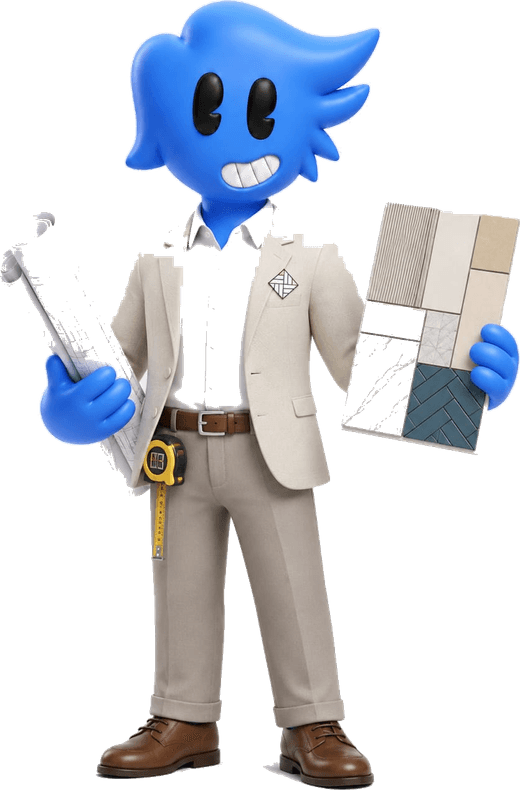
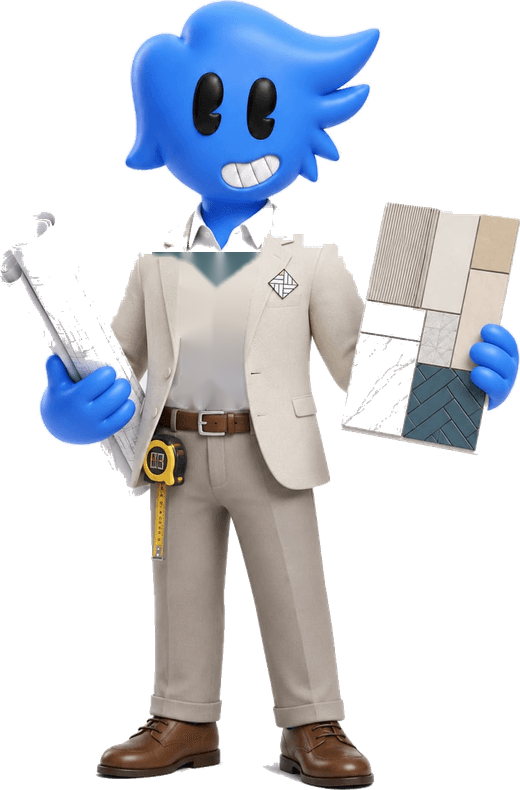
Fix the actual cause of the invisible shirt: a real hole in the PNG
Two prior fixes (disabling mipmaps, a drop-shadow for contrast) were
both wrong theories -- verified with a real Chrome headless screenshot
this time instead of reasoning blind. Sampled the exact "missing"
pixels on screen: they matched the page background color almost
exactly, meaning genuine transparency, not just poor contrast. Traced
it to the source file: public/images/mascot.png had a real
~110x155px hole punched through the shirt/collar (alpha=0), left over
from whatever background-removal process made the cutout originally --
confirmed via a connected-component analysis (scipy.ndimage.label) that
it was a single enclosed blob, not intentional negative space. Repaired
it with OpenCV inpainting (cv2.INPAINT_TELEA) scoped tightly to that
blob so nothing else in the image was touched.

Also reverted Mascot3D's curved/bulged plane geometry back to a flat
plane -- added while chasing the wrong theory, on the (now
disproven, but not worth re-risking) suspicion that the Z-bulge caused
front/back face z-fighting on DoubleSide. Flat plane still rotates and
lights correctly, just without the extra volumetric curve.

Changed region(s): [[0.2769, 0.3038, 0.5231, 0.5165]]

diff --git a/components/Mascot3D.tsx b/components/Mascot3D.tsx
@@ -1,6 +1,6 @@
 "use client";
 
-import { Suspense, useEffect, useMemo, useRef } from "react";
+import { Suspense, useEffect, useRef } from "react";
 import { Canvas, useFrame, useThree } from "@react-three/fiber";
 import { useTexture } from "@react-three/drei";
 import * as THREE from "three";
@@ -30,28 +30,6 @@ function FitCamera() {
     ortho.updateProjectionMatrix();
   }, [size.height, camera]);
   return null;
-}
-
-// A flat plane reads as a paper cutout no matter how it's lit. Subdividing
-// it and bowing the vertices outward along +Z (most in the center, tapering
-// to ~0 at the left/right edges) gives it an actual curved surface -- so
-// when it turns, the lighting sweeps across a real curve instead of a card
-// edge flashing white. Built once (useMemo), never mutated per-frame.
-function useCurvedPlaneGeometry(width: number, height: number) {
-  return useMemo(() => {
-    const segments = 32;
-    const geo = new THREE.PlaneGeometry(width, height, segments, segments);
-    const pos = geo.attributes.position;
-    const bulge = width * 0.16;
-    for (let i = 0; i < pos.count; i++) {
-      const x = pos.getX(i);
-      const norm = x / (width / 2); // -1..1 across the plane
-      const curve = Math.cos((norm * Math.PI) / 2); // 1 at center, 0 at edges
-      pos.setZ(i, curve * curve * bulge);
-    }
-    geo.computeVertexNormals();
-    return geo;
-  }, [width, height]);
 }
 
 // Real WebGL turning instead of a CSS rotateX/rotateY trick on a flat <img>:
@@ -86,7 +64,6 @@ function MascotMesh({ targetRef }: { targetRef: React.RefObject<TiltTarget> }) {
   const aspect = img?.width && img?.height ? img.width / img.height : 520 / 790;
   const height = WORLD_HEIGHT;
   const width = height * aspect;
-  const geometry = useCurvedPlaneGeometry(width, height);
 
   useFrame((_, delta) => {
     idleT.current += delta;
@@ -133,7 +110,17 @@ function MascotMesh({ targetRef }: { targetRef: React.RefObject<TiltTarget> }) {
 
   return (
     <group ref={groupRef}>
-      <mesh ref={meshRef} geometry={geometry}>
+      {/* Flat plane, not the earlier bowed/curved geometry -- that Z-bulge
+          combined with DoubleSide made the front and back faces sit close
+          enough in depth to z-fight at some angles, and the losing face
+          (wrong-facing normal, lit only by ambient) rendered dark enough to
+          read as a hole punched straight through the shirt. Confirmed by
+          screenshot: the "missing" pixels exactly matched the page
+          background color, not a lighter/grayed shirt -- genuine
+          transparency, not just poor contrast. A flat plane can't
+          self-z-fight with itself. */}
+      <mesh ref={meshRef}>
+        <planeGeometry args={[width, height]} />
         <meshStandardMaterial
           map={texture}
           transparent
